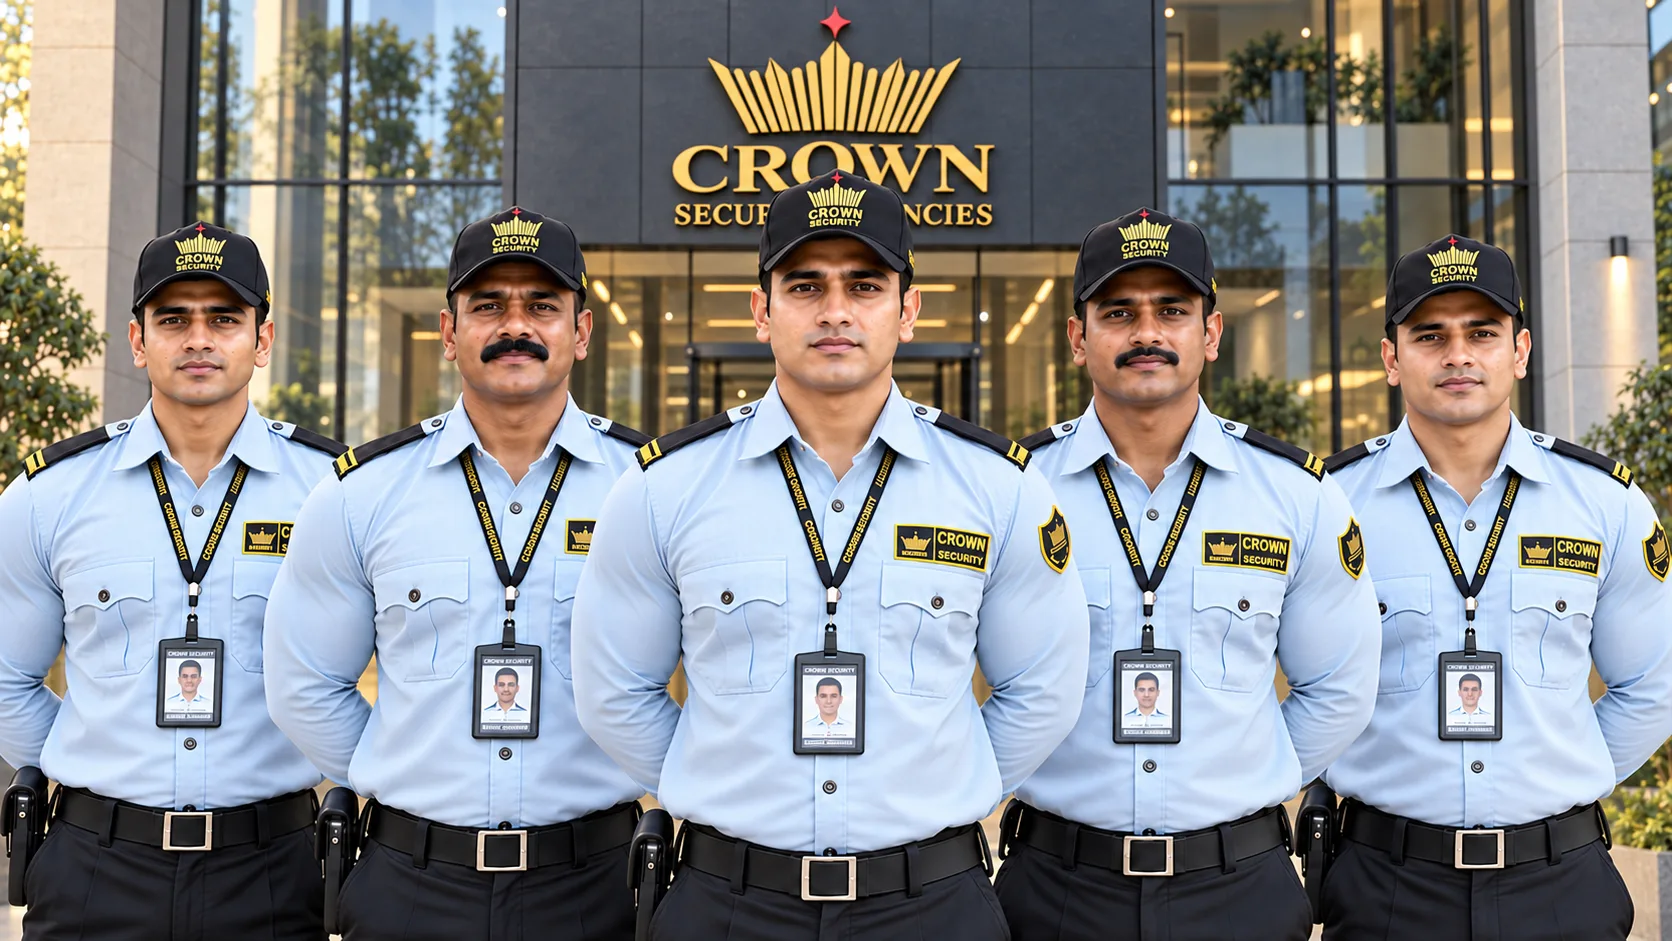
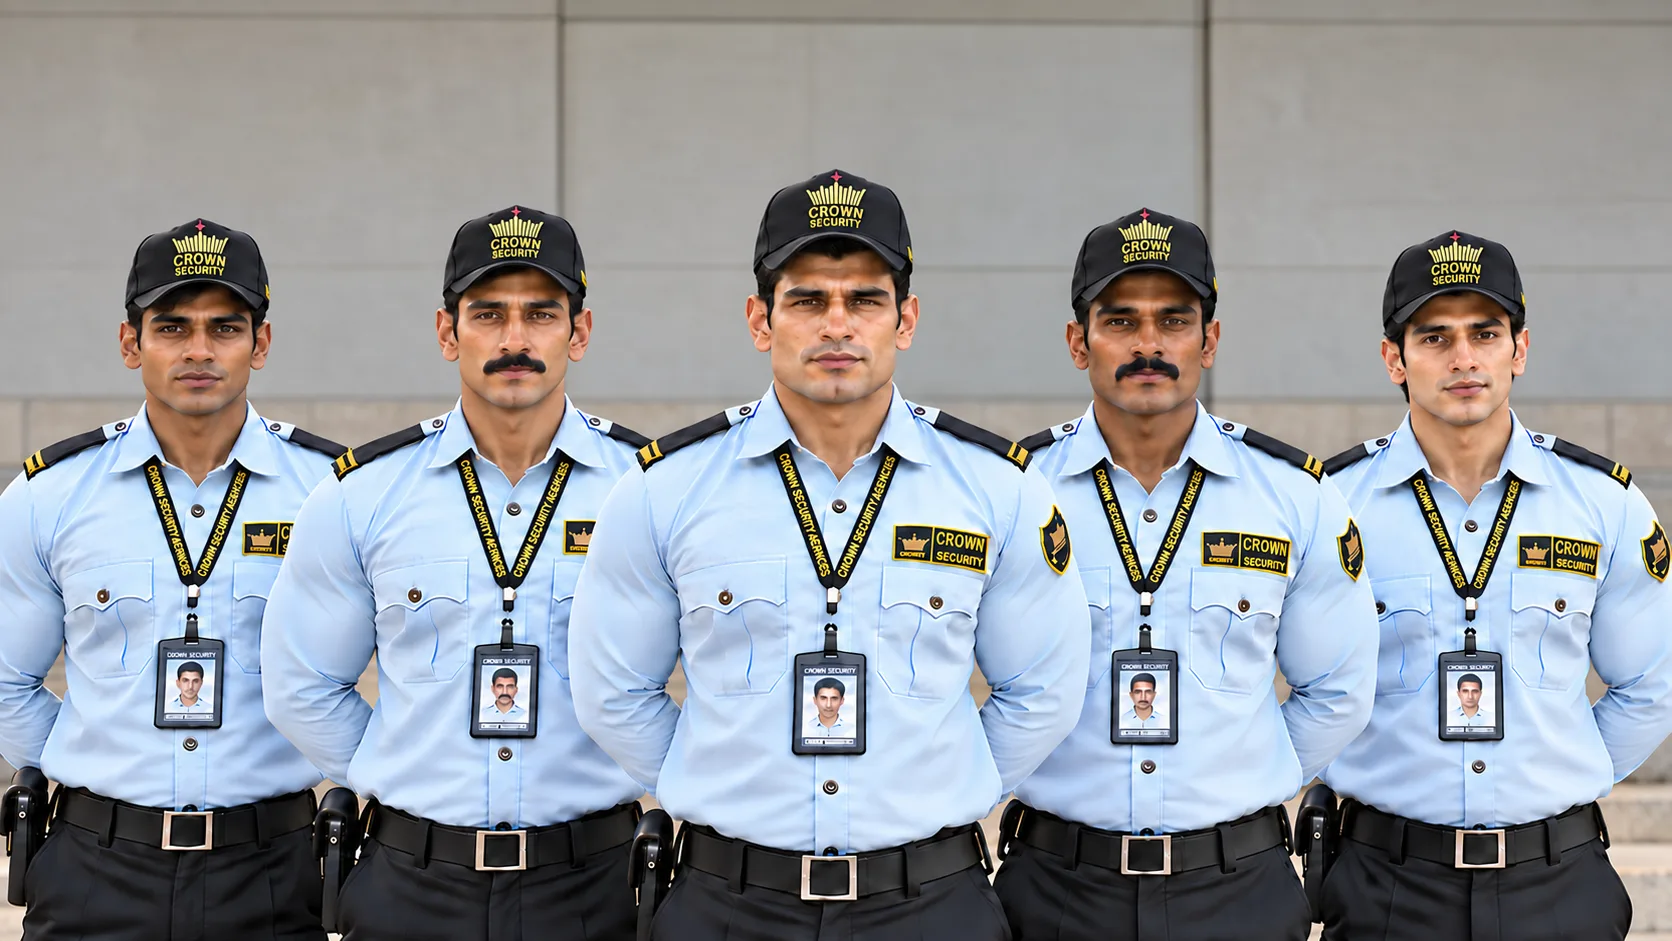
Refresh home hero and Security Convoy images

diff --git a/src/data/legacySection.ts b/src/data/legacySection.ts
@@ -19,9 +19,9 @@ export type LegacySectionData = {
 export const LEGACY_SECTION_DATA: LegacySectionData = {
   title: "Our Legacy & Leadership",
   subtitle: "Mr. Mohammad Nadir Tanveer Shaikh",
-  content: "The late Mr. Mohammad Tanveer Shamnameer Shaikh laid the foundation of CSA in 1997 with a vision rooted in discipline, integrity, and respect for human dignity.\n\nAfter his passing in 2010, his son, Mr. Mohammad Nadir Tanveer Shaikh, took charge as Managing Director – Operations, steering CSA into a new era of modernization and compliance.\n\nAn MBA graduate from Symbiosis Institute of Business Management, Pune, Mr. Nadir Shaikh represents the second generation of leadership, blending tradition with innovation. Under his direction, CSA has achieved the following Milestones: \n\n- Expanded from Maharashtra to 9 states, PAN-India\n- Partnered with industry leaders like DHL, Mahindra, BASF, Rustomjee, Apple, and Amazon\n- Introduced digital attendance, audit, and ERP systems\n- Maintained a 90%+ client retention rate\n- Achieved 200+ operational sites and 2000+ trained professionals.\n\n“Security is not just about protection, it’s about trust. At Crown Security Agencies, we safeguard people, property, and peace of mind with integrity and discipline.”",
+  content: "The late Mr. Mohammad Tanveer Shamnameer Shaikh laid the foundation of CSA in 1997 with a vision rooted in discipline, integrity, and respect for human dignity.\n\nAfter his passing in 2010, his son, Mr. Mohammad Nadir Tanveer Shaikh, took charge as Managing Director – Operations, steering CSA into a new era of modernization and compliance.\n\nAn MBA graduate from Symbiosis Institute of Business Management, Pune, Mr. Nadir Shaikh represents the second generation of leadership, blending tradition with innovation. Under his direction, CSA has achieved the following Milestones: \n\n- Expanded from Maharashtra to 7 states, PAN-India\n- Partnered with industry leaders like DHL, Mahindra, BASF, Rustomjee, Apple, and Amazon\n- Introduced digital attendance, audit, and ERP systems\n- Maintained a 90%+ client retention rate\n- Achieved 200+ operational sites and 2000+ trained professionals.\n\n“Security is not just about protection, it’s about trust. At Crown Security Agencies, we safeguard people, property, and peace of mind with integrity and discipline.”",
   quote: "",
   author: "(Managing Director)",
   backgroundImage: "/images/home/legacy-bg-h.webp",
-  highlightedWords: ["Mr. Mohammad Tanveer Shamnameer Shaikh", "Managing Director – Operations", "An MBA graduate from Symbiosis Institute of Business Management, Pune, Mr. Nadir Shaikh", "9 states, PAN-India", "industry leaders like DHL, Mahindra, BASF, Rustomjee, Apple, and Amazon", "digital attendance, audit, and ERP systems", "90%+ client retention rate", "200+ operational sites and 2000+ trained professionals"]
+  highlightedWords: ["Mr. Mohammad Tanveer Shamnameer Shaikh", "Managing Director – Operations", "An MBA graduate from Symbiosis Institute of Business Management, Pune, Mr. Nadir Shaikh", "7 states, PAN-India", "industry leaders like DHL, Mahindra, BASF, Rustomjee, Apple, and Amazon", "digital attendance, audit, and ERP systems", "90%+ client retention rate", "200+ operational sites and 2000+ trained professionals"]
 };

diff --git a/src/data/about.ts b/src/data/about.ts
@@ -41,7 +41,7 @@ export const ABOUT_DATA: AboutData = {
     imageSrc: "/images/about/about-us.webp",
     imageAlt: "Crown Security Agencies professional guard",
     paragraphs: [
-      "Established in 1997 by the Late Mr. Mohammad Tanveer Shamnameer Shaikh, Crown Security Agencies (CSA) has expanded from a Mumbai-based business to a PAN-India company that protects assets valued at more than ₹25000 crores.\n\nWe currently employ 2000+ Security Personnel operating in 9 states, combining modern technology with human vigilance.\n\nWith corporate office in Thane and regional presence in Pune, Bangalore, Ahmedabad, Delhi, Chennai, Haryana, and Hyderabad, Crown Security Agencies continues to redefine what dependable, compliant, and people-first security truly means.",
+      "Established in 1997 by the Late Mr. Mohammad Tanveer Shamnameer Shaikh, Crown Security Agencies (CSA) has expanded from a Mumbai-based business to a PAN-India company that protects assets valued at more than ₹25000 crores.\n\nWe currently employ 2000+ Security Personnel operating in 7 states, combining modern technology with human vigilance.\n\nWith corporate office in Thane and regional presence in Pune, Bangalore, Ahmedabad, Delhi, Chennai, Haryana, and Hyderabad, Crown Security Agencies continues to redefine what dependable, compliant, and people-first security truly means.",
     ],
   },
 };

diff --git a/src/data/heroSections.ts b/src/data/heroSections.ts
@@ -10,7 +10,7 @@ export const homepageHero: HeroSectionProps = {
   content: {
     title: "Your Security. Our Priority.",
     description:
-      "For almost 30 years now, Crown Security Agencies (CSA) has been India’s trusted security partner, combining disciplined manpower, ethical governance, and technology-driven systems to safeguard people, property, and peace of mind across 9 states.",
+      "For almost 30 years now, Crown Security Agencies (CSA) has been India’s trusted security partner, combining disciplined manpower, ethical governance, and technology-driven systems to safeguard people, property, and peace of mind across 7 states.",
     buttons: [
       {
         text: "LEARN HOW",
